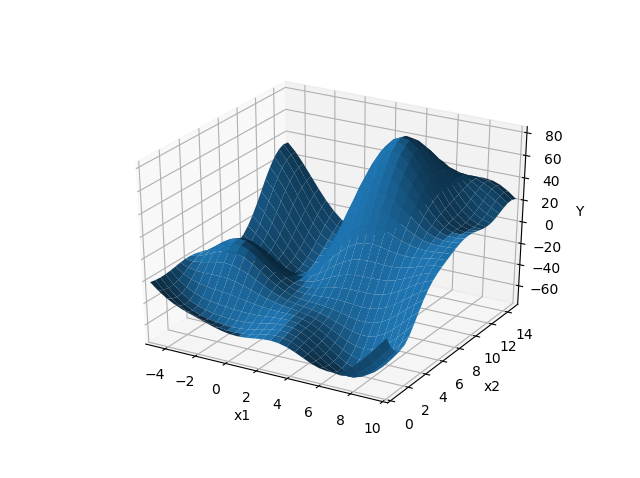
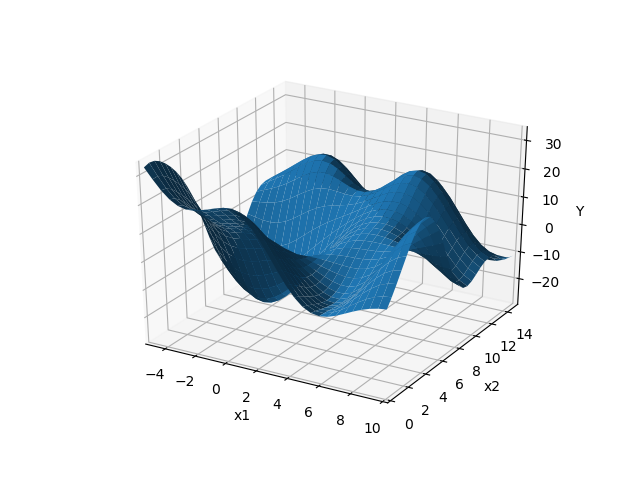
white/random noise updated 0.2

diff --git a/main.py b/main.py
@@ -92,6 +92,7 @@ x1min, x1max, x2min, x2max = -5, 10, 0, 15  # Domain of the input space
 row, col = 30, 30  # Grid number of the input space
 var, gamma = 15**2, 3
 X, Y = gt.grid(x1min,x1max,x2min,x2max,row,col,var,gamma)  # Dummy grid dataset realized by function
+#X, Y = np.load('X.npy'), np.load('Y.npy')
 gt.showGrid(X, Y)  # Show function dummy grid
 
 # Ground truth representation through GP (parameters are var and lengthscale)
@@ -116,7 +117,7 @@ for s1 in range(scen_1):
     for s2 in range(scen_2):
         # Point samples as point observation
         #r = s+1  # Minimal distance (number of grid) separating points
-        r = 3
+        r = 2
         
         # X, Y = noiseCov(Xp, Yp, mean=100, std=30)  # Add noise to GP ground truth before point sampling
         x, y = pt.poissonPt(Xp, Yp, r)
@@ -127,7 +128,9 @@ for s1 in range(scen_1):
         !!! Dense covariate with controlled noise Xn, Yn !!!
         '''
         sc_1, sc_2 = (1/15)*s1, (1/15)*s2  # Each scenario runs with scaled var and gamma
-        Xn, Yn = pb.noiseCov(X, Y, var=(sc_1*np.sqrt(var))**2, spar=sc_2*gamma)
+        # White/random noise
+        Xn, Yn = pb.noiseCov(Xcov, Ycov, var=(sc_1*np.sqrt(var*0.2))**2, spar=sc_2*gamma)
+        # GP controlled smooth noise
         #Xn, Yn = pb.noiseGPCov(Xcov, Ycov, var=(sc_1*np.sqrt(var))**2, gamma=sc_2*gamma)
         
         # Model inference through GP Coregionalization
@@ -164,11 +167,12 @@ for s1 in range(scen_1):
 err = np.load('RMSE_all.npy')
 err = np.array(err)
 err = err[~np.any(err == 0, axis=1)]  # Remove rows with 0
+#err = err[~np.any(err > 50, axis=1)]  # Remove the extrema
 
 ## In 2D
-#plt.scatter(err[:,0], err[:,1], c=err[:,2], cmap='coolwarm', s=15)
-#plt.xlabel('Noise intensity over information')
-#plt.ylabel('Noise lengthscale over information')
+plt.scatter(err[:,0], err[:,1], c=err[:,2], cmap='coolwarm', s=15)
+plt.xlabel('Noise intensity over information')
+plt.ylabel('Noise lengthscale over information')
 
 # In 3D
 fig = plt.figure()

diff --git a/perturb.py b/perturb.py
@@ -78,7 +78,7 @@ def noiseGPCov(X, Y, var, gamma):
         L = np.linalg.cholesky(K + 1e-6*np.eye(K.shape[0]))
         # Draw sample (can be multiple)
         Ynoise = np.dot(L, np.random.normal(size=(X.shape[0],1)))  # Draw 1 sample
-    Ynew = Y+Ynoise
-    gt.showGrid(X, Ynew)
-    gt.showGrid(X, Ynoise)
-    return(X, Ynew)
+    Y += Ynoise
+    gt.showGrid(X, Y)
+    #gt.showGrid(X, Ynoise)
+    return(X, Y)
